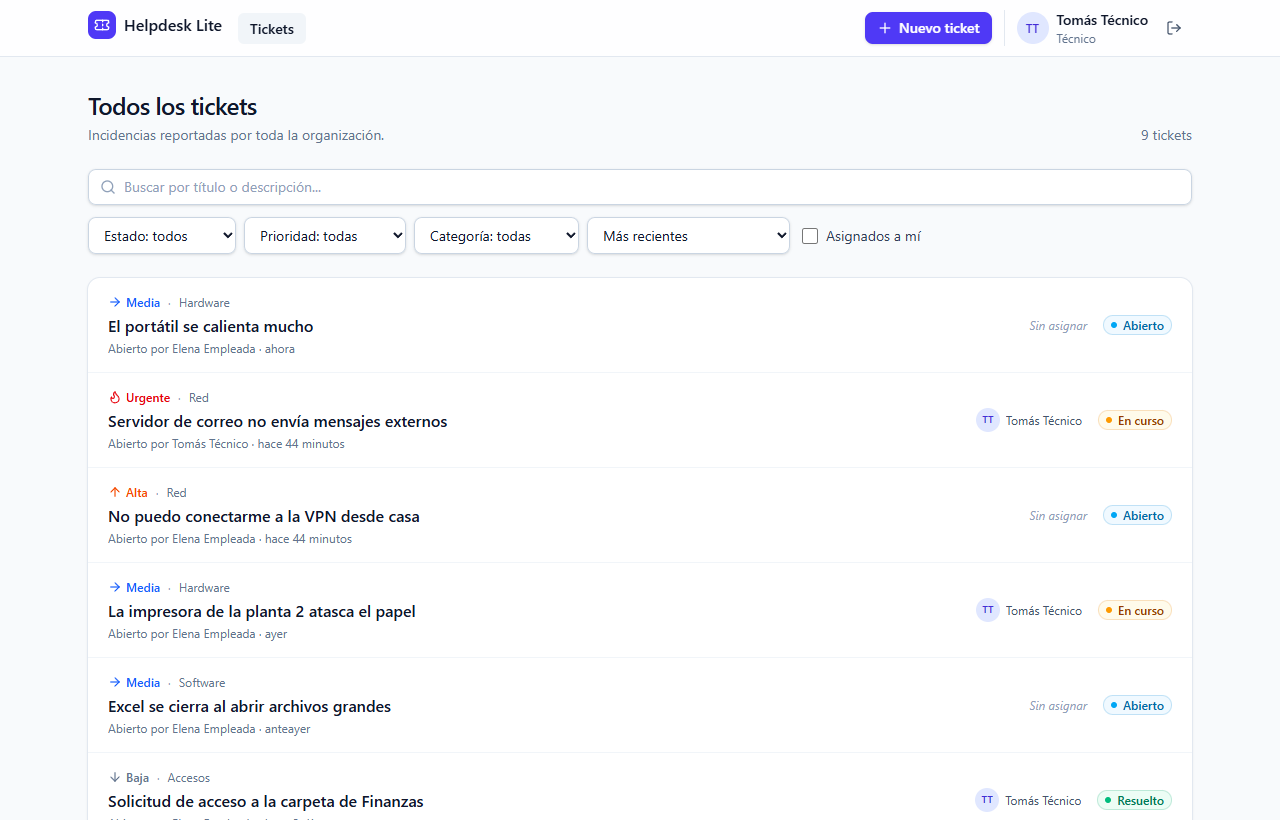
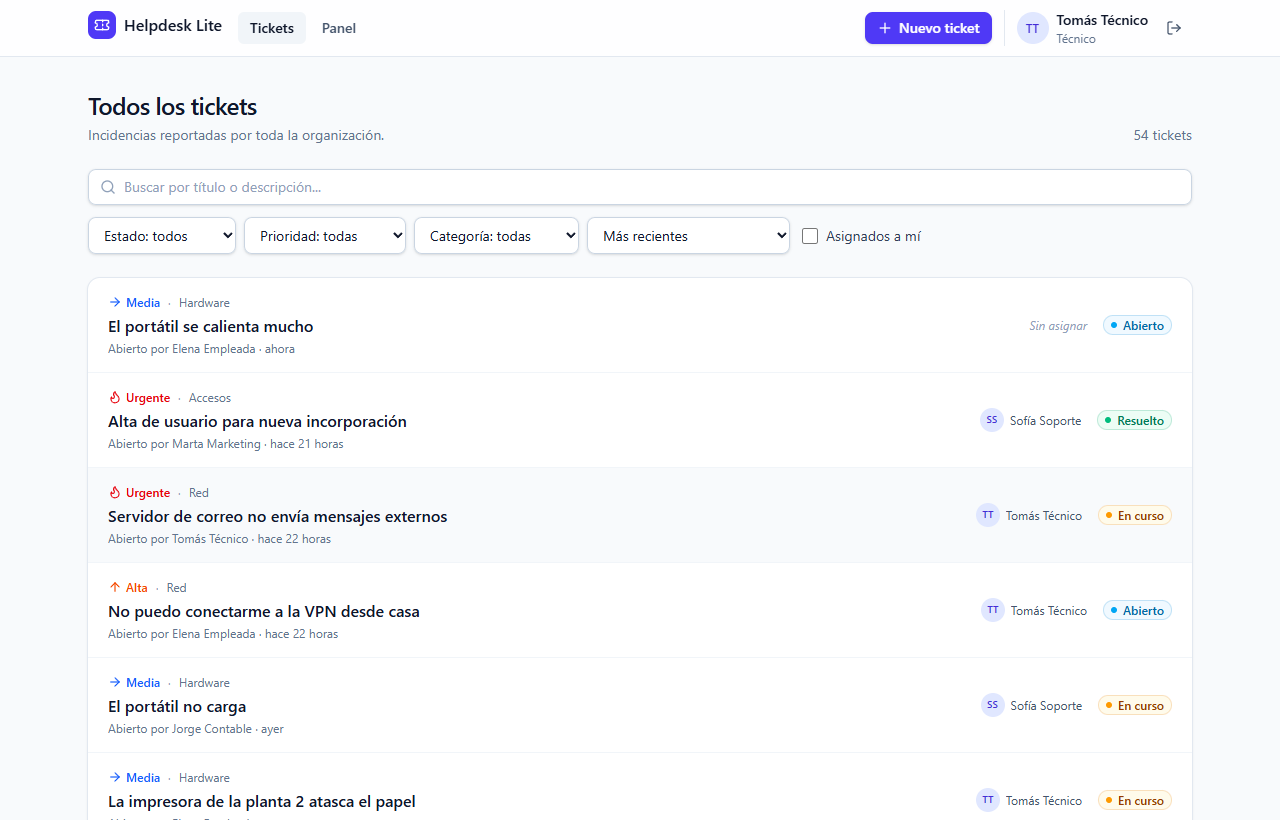
docs: add dashboard screenshot, metrics endpoint and seed history notes

diff --git a/README.md b/README.md
@@ -14,6 +14,13 @@
 
 ![Lista de tickets vista por un técnico](./docs/screenshots/tickets-list.png)
 
+<details>
+<summary><b>Panel de métricas</b> (técnicos y administradores)</summary>
+
+![Panel de métricas: KPIs, tendencia diaria, estado, prioridad, categoría y carga por técnico](./docs/screenshots/dashboard.png)
+
+</details>
+
 <table>
   <tr>
     <td width="68%"><img src="./docs/screenshots/ticket-detail.png" alt="Detalle de un ticket con conversación y nota interna"></td>
@@ -39,7 +46,7 @@
 - [x] CRUD de tickets con filtros, búsqueda, orden y paginación
 - [x] Asignación de tickets a técnicos y flujo de estados validado
 - [x] Comentarios en tickets, con notas internas solo visibles para soporte
-- [ ] Panel con métricas (tickets abiertos, por prioridad, tiempo de resolución)
+- [x] Panel de métricas para soporte: KPIs, creados frente a resueltos por día, estado, prioridad, categoría y carga por técnico
 - [x] Frontend en React: login con cuentas demo, lista con filtros en la URL, detalle con conversación y acciones según el rol
 - [x] Integración continua con GitHub Actions
 
@@ -149,6 +156,8 @@ Todos usan la contraseña `Password123!`
 | AGENT | `agent@helpdesk.dev` | Atender y resolver tickets |
 | USER | `user@helpdesk.dev` | Crear y seguir sus propios tickets |
 
+El seed crea además una segunda técnica (`agent2@helpdesk.dev`), dos empleados y un **histórico de unos 45 tickets** repartidos en 75 días. Lo genera un pseudoaleatorio con semilla fija, así que el panel de métricas tiene datos realistas y es igual en cualquier PC.
+
 ### Scripts útiles
 
 En `frontend/`: `npm run dev` (Vite), `npm test`, `npm run lint`, `npm run build`.
@@ -162,7 +171,7 @@ En `backend/`:
 | `npm run typecheck` | Verifica tipos de TypeScript |
 | `npm run build` | Compila a JavaScript en `dist/` |
 | `npm run db:migrate` | Crea/aplica migraciones |
-| `npm run db:seed` | Crea los usuarios y tickets de demostración |
+| `npm run db:seed` | Crea los usuarios, tickets e histórico de demostración |
 | `npm run db:studio` | Explorador visual de la base de datos |
 
 ## 📡 API
@@ -178,6 +187,7 @@ Las rutas protegidas requieren la cabecera `Authorization: Bearer <token>`. El t
 | GET | `/api/auth/me` | Autenticado | Perfil del usuario actual |
 | GET | `/api/users` | `ADMIN` | Lista de usuarios |
 | GET | `/api/users/agents` | `AGENT`, `ADMIN` | Técnicos a los que se puede asignar un ticket |
+| GET | `/api/metrics?days=7\|30\|90` | `AGENT`, `ADMIN` | Métricas del panel: resumen, distribuciones, serie diaria y carga por técnico |
 | GET | `/api/tickets` | Autenticado | Lista paginada con filtros (ver abajo) |
 | POST | `/api/tickets` | Autenticado | Crear un ticket |
 | GET | `/api/tickets/:id` | Autenticado | Detalle de un ticket |
@@ -236,7 +246,7 @@ Todas las respuestas de error comparten el formato `{ "error": { "message": "...
 ## 🧪 Tests
 
 ```bash
-cd backend && npm test    # 62 tests de integración contra PostgreSQL
+cd backend && npm test    # 71 tests de integración contra PostgreSQL
 cd frontend && npm test   # tests de componentes con Testing Library
 ```
 

diff --git a/README.en.md b/README.en.md
@@ -14,6 +14,13 @@
 
 ![Ticket list as seen by a technician](./docs/screenshots/tickets-list.png)
 
+<details>
+<summary><b>Metrics dashboard</b> (technicians and admins)</summary>
+
+![Metrics dashboard: KPIs, daily trend, status, priority, category, and per-technician workload](./docs/screenshots/dashboard.png)
+
+</details>
+
 <table>
   <tr>
     <td width="68%"><img src="./docs/screenshots/ticket-detail.png" alt="Ticket details with conversation and internal note"></td>
@@ -41,7 +48,7 @@
 - [x] Ticket CRUD with filters, search, sorting, and pagination
 - [x] Ticket assignment to technicians and a validated status workflow
 - [x] Ticket comments, with internal notes visible only to support staff
-- [ ] Metrics dashboard (open tickets, by priority, resolution time)
+- [x] Support metrics dashboard: KPIs, created vs. resolved per day, status, priority, category, and per-technician workload
 - [x] React frontend: login with demo accounts, list with URL-based filters, ticket details with conversation and role-based actions
 - [x] Continuous integration with GitHub Actions
 
@@ -151,6 +158,8 @@ All of them use the password `Password123!`
 | AGENT | `agent@helpdesk.dev` | Handle and resolve tickets |
 | USER | `user@helpdesk.dev` | Create and follow their own tickets |
 
+The seed also creates a second technician (`agent2@helpdesk.dev`), two employees, and a **history of about 45 tickets** spread over 75 days. It uses a fixed-seed pseudo-random generator, so the metrics dashboard has realistic data and looks the same on every machine.
+
 ### Useful scripts
 
 In `frontend/`: `npm run dev` (Vite), `npm test`, `npm run lint`, `npm run build`.
@@ -164,7 +173,7 @@ In `backend/`:
 | `npm run typecheck` | Type-check with TypeScript |
 | `npm run build` | Compile to JavaScript in `dist/` |
 | `npm run db:migrate` | Create/apply migrations |
-| `npm run db:seed` | Create the demo users and tickets |
+| `npm run db:seed` | Create the demo users, tickets, and history |
 | `npm run db:studio` | Visual database browser |
 
 ## 📡 API
@@ -180,6 +189,7 @@ Protected routes require the `Authorization: Bearer <token>` header. Get a token
 | GET | `/api/auth/me` | Authenticated | Current user profile |
 | GET | `/api/users` | `ADMIN` | List users |
 | GET | `/api/users/agents` | `AGENT`, `ADMIN` | Technicians a ticket can be assigned to |
+| GET | `/api/metrics?days=7\|30\|90` | `AGENT`, `ADMIN` | Dashboard metrics: summary, distributions, daily series, and workload |
 | GET | `/api/tickets` | Authenticated | Paginated list with filters (see below) |
 | POST | `/api/tickets` | Authenticated | Create a ticket |
 | GET | `/api/tickets/:id` | Authenticated | Ticket details |
@@ -238,7 +248,7 @@ All error responses share the format `{ "error": { "message": "...", "details": 
 ## 🧪 Tests
 
 ```bash
-cd backend && npm test    # 62 integration tests against PostgreSQL
+cd backend && npm test    # 71 integration tests against PostgreSQL
 cd frontend && npm test   # component tests with Testing Library
 ```
 
